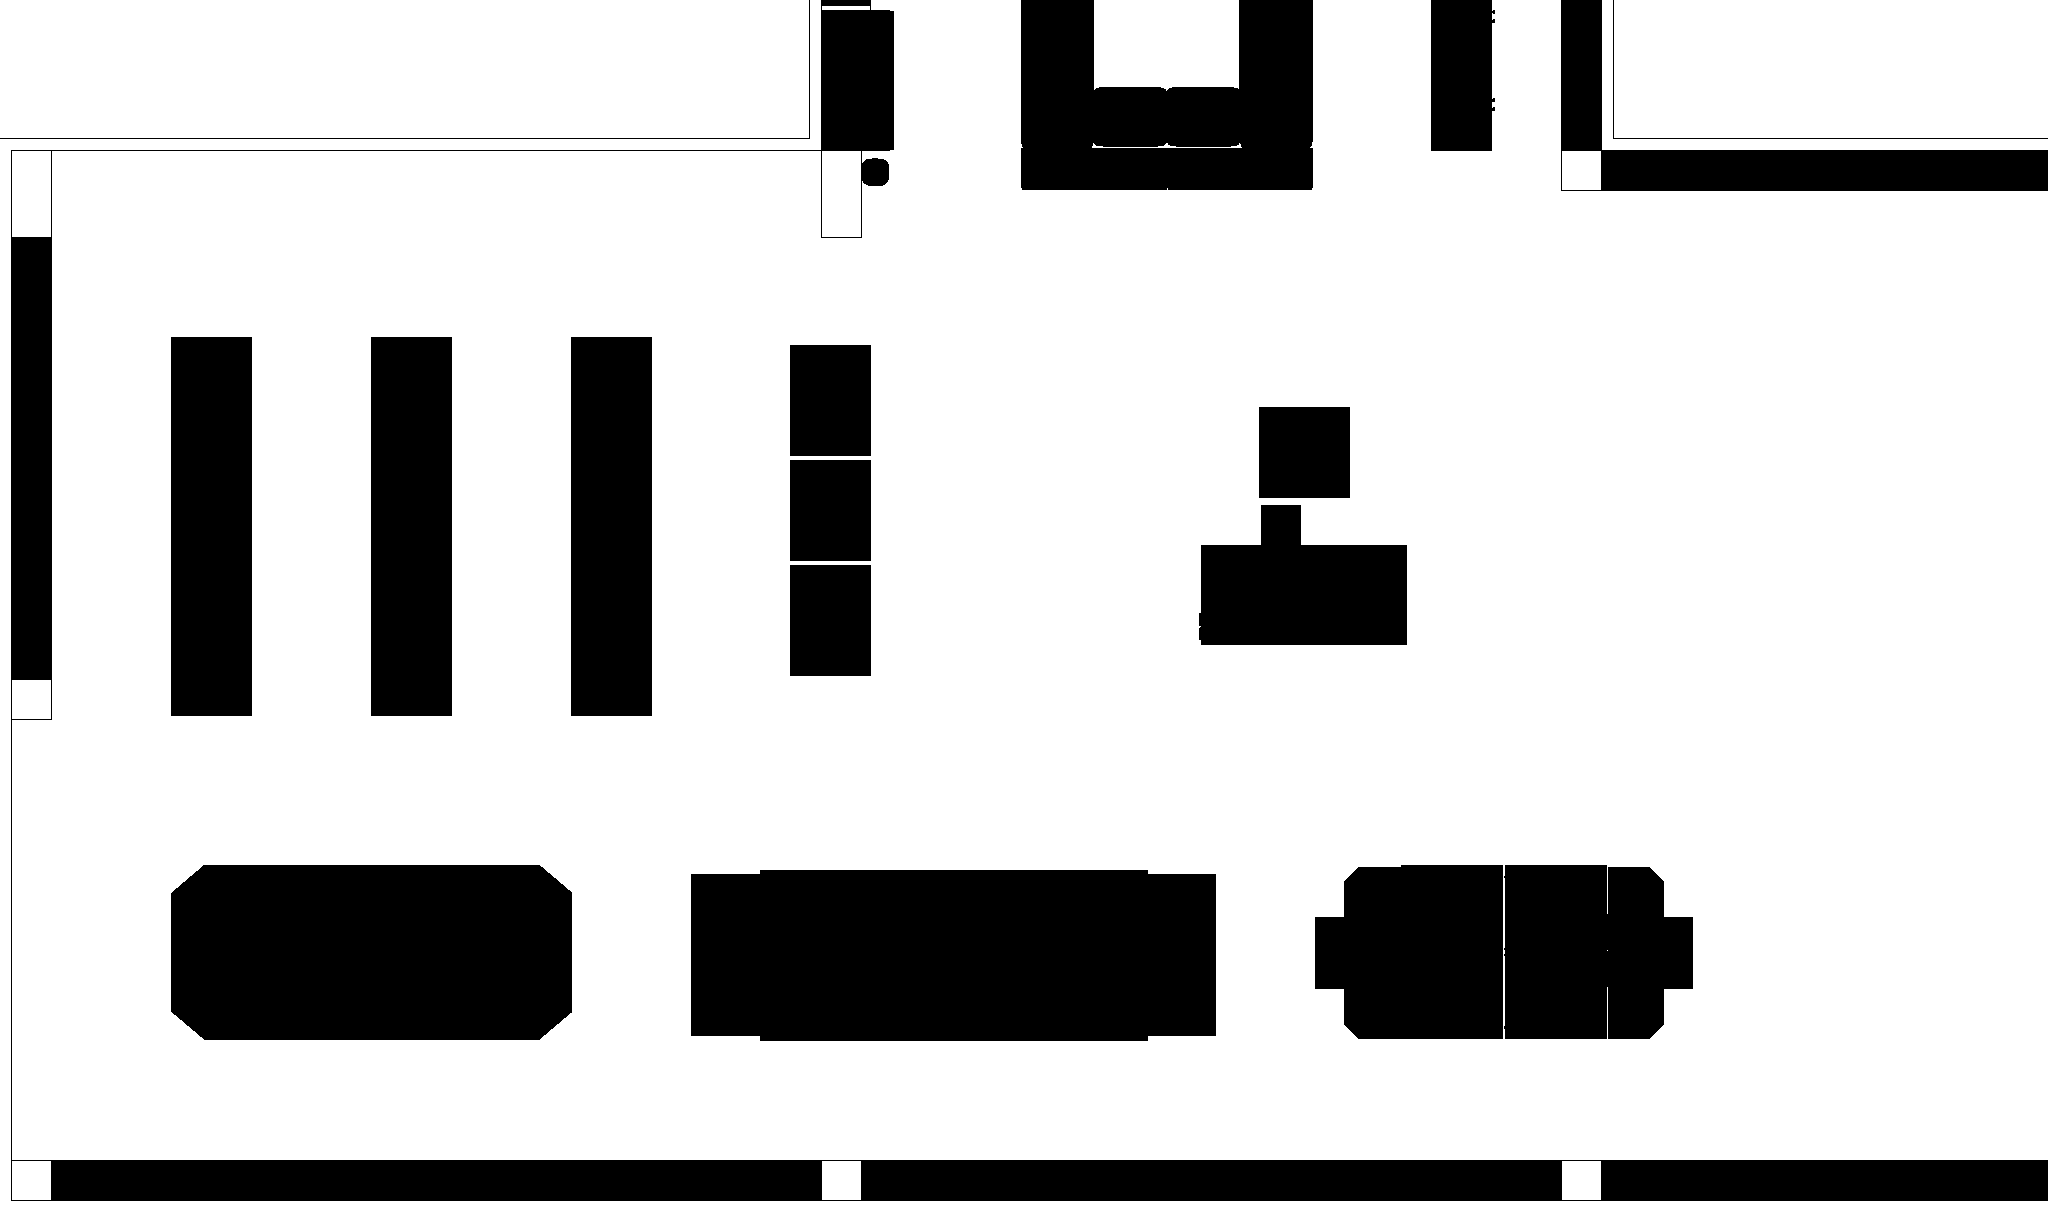
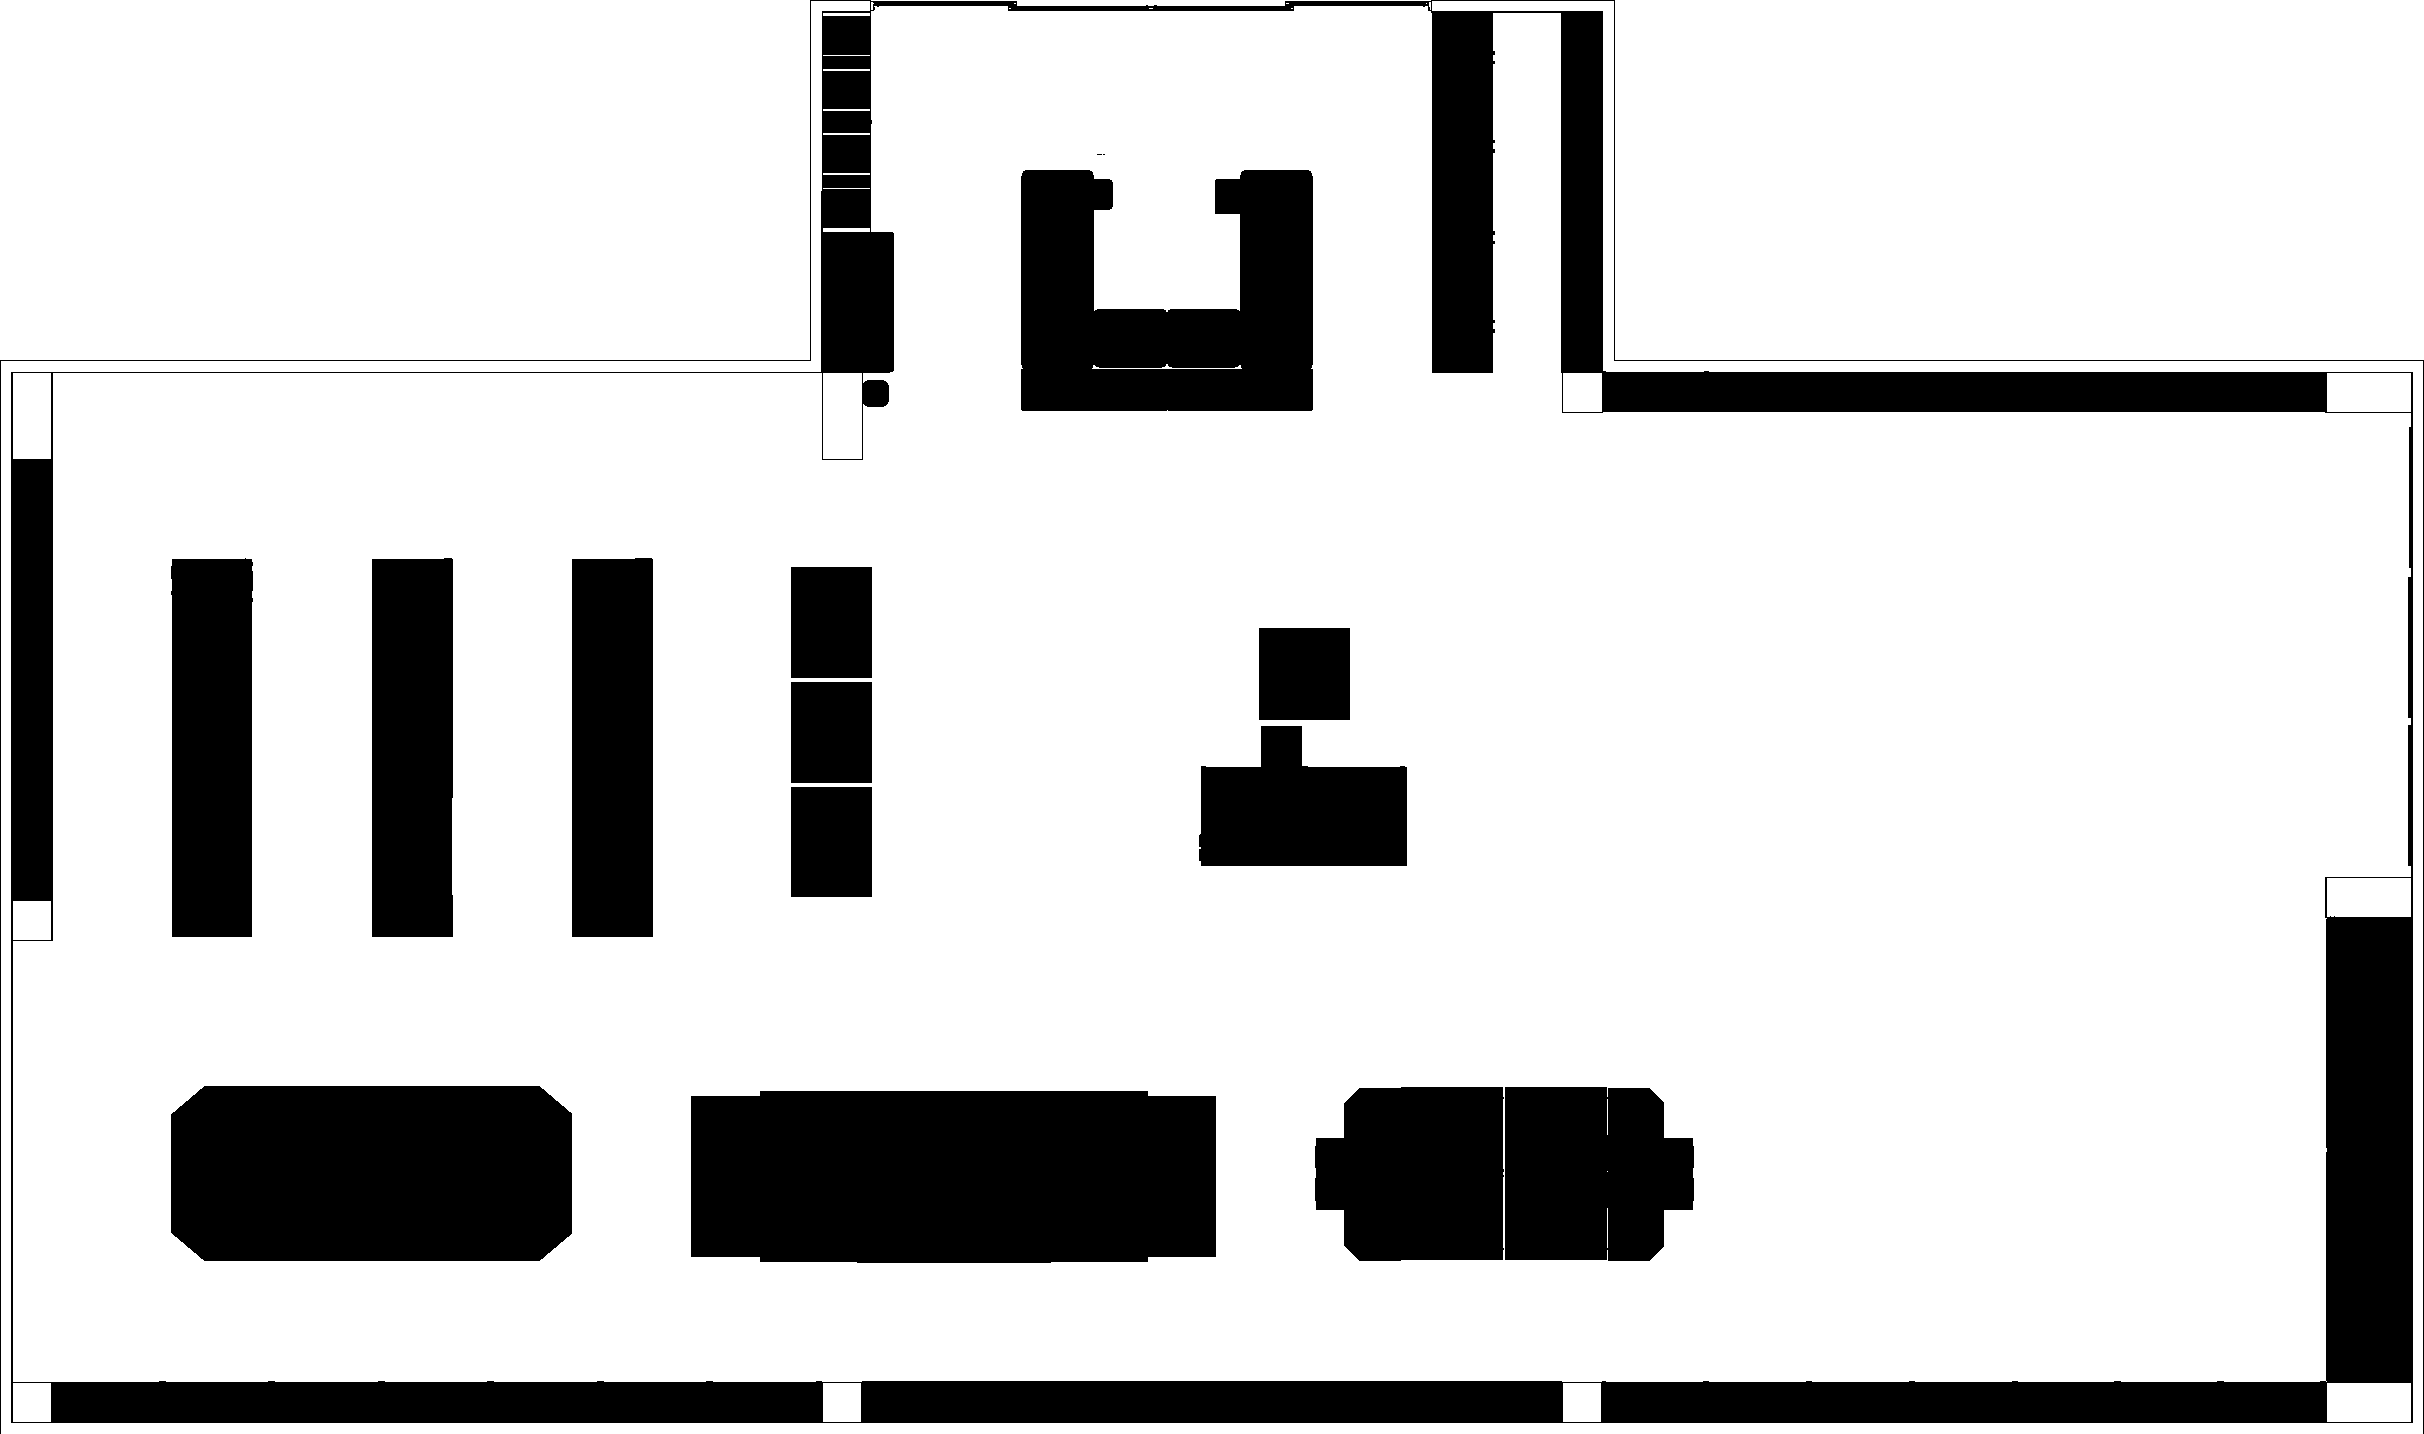
Integrate pedestrian appearance pools and collection fixes

diff --git a/task_generator/task_generator/simulators/sim/isaac_simulator.py b/task_generator/task_generator/simulators/sim/isaac_simulator.py
@@ -1,7 +1,6 @@
 import asyncio
 import itertools
 import os
-import random
 import traceback
 import types
 import typing
@@ -495,46 +494,15 @@ class IsaacSimulator(BaseSim, NodeInterface):
 
     async def pedestrian_spawn(self, pedestrians):
 
-        on_success: list[tuple[str, str]] = []
-
-        # TODO implement targeted pedestrian models
         async def impl(pedestrian: DynamicObstacle) -> Pedestrian | None:
-            available_models: dict[str, str] = {
-                # "F_Business_02",
-                # "F_Medical_01",
-                # "M_Medical_01",
-                # "biped_demo",
-                # "female_adult_police_01_new",
-                # "female_adult_police_02",
-                # "female_adult_police_03_new",
-                # "male_adult_construction_01_new",
-                # "male_adult_construction_03",
-                # "male_adult_construction_05_new",
-                # "male_adult_police_04",
-                "female_adult_business_02": "original_female_adult_business_02",
-                "female_adult_medical_01": "original_female_adult_medical_01",
-                "female_adult_police_01": "original_female_adult_police_01",
-                "female_adult_police_02": "original_female_adult_police_02",
-                "female_adult_police_03": "original_female_adult_police_03",
-                "male_adult_construction_01": "original_male_adult_construction_01",
-                "male_adult_construction_02": "original_male_adult_construction_02",
-                "male_adult_construction_03": "original_male_adult_construction_03",
-                "male_adult_construction_05": "original_male_adult_construction_05",
-                "male_adult_medical_01": "original_male_adult_medical_01",
-                "male_adult_police_04": "original_male_adult_police_04",
-            }
-            if pedestrian.model.name in available_models:
-                model_name = pedestrian.model.name
-            else:
-                model_name = random.choice(tuple(available_models.keys()))
+            model_name = pedestrian.model.name
 
             ped = Pedestrian()
             ped.name = self._NS_PEDESTRIAN(pedestrian.sim_path)
-            ped.character_name = available_models[model_name]
+            ped.character_name = model_name
             ped.pose = pedestrian.pose.to_msg()
             ped.controller_stats = False
 
-            on_success.append((pedestrian.name, model_name))
             return ped
 
         req = SpawnPedestrians.Request()

diff --git a/task_generator/task_generator/simulators/human/isaac.py b/task_generator/task_generator/simulators/human/isaac.py
@@ -1,11 +1,8 @@
 import asyncio
-import random
 import typing
 from collections.abc import Sequence
 
-from arena_simulation_setup.tree.assets.Pedestrian import PedestrianIdentifier
-
-from task_generator.shared import DynamicObstacle, ModelWrapper
+from task_generator.shared import DynamicObstacle
 from task_generator.simulators.human.dummy import DummyHumanSimulator
 from task_generator.simulators.human.utils import ObstacleLayer
 from task_generator.simulators.sim import BaseSim
@@ -37,8 +34,6 @@ class IsaacHumanSimulator(DummyHumanSimulator):
                     name=obstacle.name,
                     obstacle=obstacle
                 )
-                model_name = random.choice(['F_Business_02', 'F_Medical_01', 'M_Medical_01', 'biped_demo', 'female_adult_police_01_new', 'female_adult_police_02', 'female_adult_police_03_new', 'male_adult_construction_01_new', 'male_adult_construction_03', 'male_adult_construction_05_new', 'male_adult_police_04', 'original_female_adult_business_02', 'original_female_adult_medical_01', 'original_female_adult_police_01', 'original_female_adult_police_02', 'original_female_adult_police_03', 'original_male_adult_construction_01', 'original_male_adult_construction_02', 'original_male_adult_construction_03', 'original_male_adult_construction_05', 'original_male_adult_medical_01', 'original_male_adult_police_04'])
-                obstacle.model = PedestrianIdentifier.inline(ModelWrapper.Constant(model_name, {}))
                 futures.append(self._simulator.pedestrian_spawn((obstacle,)))
             else:
                 futures.append(self._simulator.pedestrian_move((obstacle,)))

diff --git a/task_generator/task_generator/simulators/human/hunav/hunav.py b/task_generator/task_generator/simulators/human/hunav/hunav.py
@@ -78,7 +78,10 @@ def _create_robot_message(
     robot_msg.id = 0
     robot_msg.name = "robot"
     robot_msg.type = Agent.ROBOT
-    robot_msg.radius = 0.3
+    # This is the radius used only by HuNav's pedestrian-side SFM.  It is
+    # deliberately independent of the Nav2 footprint: pedestrians start
+    # yielding a little earlier without changing robot navigation geometry.
+    robot_msg.radius = 0.4
 
     x, y, yaw = pose if pose is not None else (0.0, 0.0, 0.0)
     robot_msg.position.position.x = x
@@ -1053,6 +1056,7 @@ class HunavHumanSimulator(
         self._last_updated_agents = None
         self._last_smooth_yaws = {}
         self._agent_previous_orientations = {}
+        self._passing_sides = {}
 
         self._logger.debug("All local data structures cleared")
 

diff --git a/arena_simulation_setup/worlds/map_empty/scenarios/pedestrian_character_showcase/README.md b/arena_simulation_setup/worlds/map_empty/scenarios/pedestrian_character_showcase/README.md
@@ -1,0 +1,53 @@
+# Pedestrian character showcase
+
+This scenario is the Arena/HuNav acceptance scene for the curated ten-person
+Isaac character pool. Each `model` in `scenario.yaml` is a stable key from
+`pedestrian.simulator.logic.people.character_assets`.
+
+The rows in the standalone review image are ordered left to right as follows:
+
+- Back row: `female_medical_01`, `male_medical_01`,
+  `female_business_01`, `female_casual_01`, `female_senior_01`.
+- Front row: `male_casual_01`, `male_casual_02`, `male_senior_01`,
+  `female_young_adult_01`, `male_young_adult_01`.
+
+To select the scenario in a running `map_empty` Arena session:
+
+```bash
+ros2 param set /task_generator_node task.scenario.file pedestrian_character_showcase
+```
+
+Then trigger a task reset. The normal launch must use
+`tm_robots:=scenario tm_obstacles:=scenario`.
+
+For a faster asset-only regression check inside the Isaac container, run:
+
+```bash
+PYTHONPATH=/opt/arena_ws/src/Arena/arena_isaac/arena_isaac \
+  /isaac-sim/python.sh \
+  /opt/arena_ws/src/Arena/arena_isaac/arena_isaac/scripts/validate_character_showcase.py \
+  --output-dir /opt/arena_ws/log/pedestrian_character_showcase
+```
+
+The script writes `validation.json` and an RGB image. First execution is slow
+because DH assets trigger large USD/texture downloads and RTX shader caching.
+
+To keep the Isaac Sim GUI open for interactive visual inspection, append
+`--keep-open`. In this mode the people continuously shuttle left and right so
+their walk cycles and turns can be inspected. Close the GUI window or press
+`Ctrl+C` in the terminal to exit.
+
+Scenario files may use one of the reviewed pools directly:
+
+```yaml
+model: pedestrian
+model: doctor
+model: police
+model: construction_worker
+```
+
+The Isaac spawn service resolves a pool to a concrete identity (and a DH color
+variant), uses each identity once before repeating it, and caches the result by
+pedestrian name. Set `ARENA_PEDESTRIAN_MODEL_SEED` before launching Isaac for a
+reproducible selection. Exact names such as `classic_female_medical_01` and
+`dh_3809dbd8_v07` remain supported.
